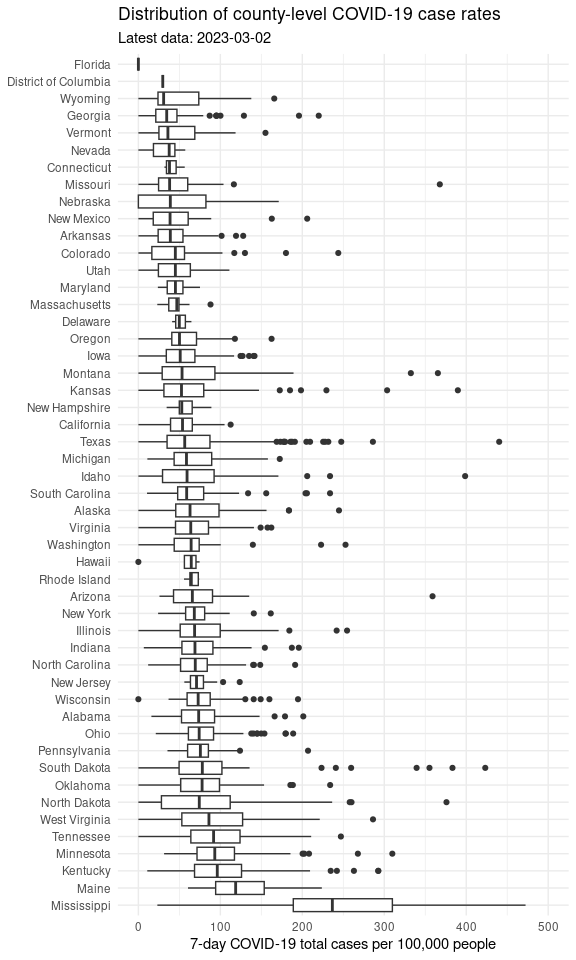
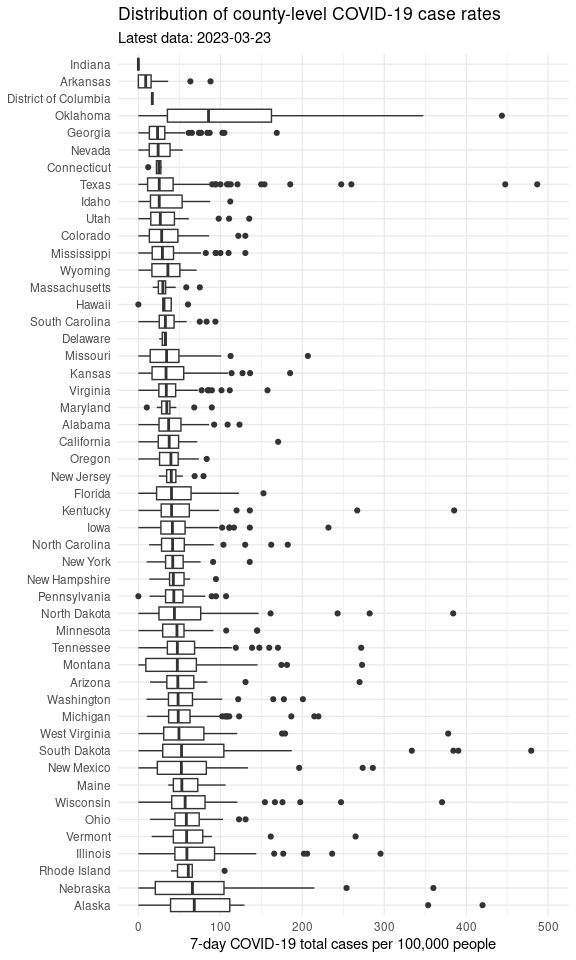
Updated report

diff --git a/README.md b/README.md
@@ -1,7 +1,7 @@
 Minnesota COVID Report
 ================
 
-Report last run: 2023-03-03 21:51:54
+Report last run: 2023-04-13 16:56:57
 
 ## Introduction
 
@@ -19,7 +19,7 @@ library(lubridate)
 library(forcats)
 library(knitr)
 
-LAG_DAYS <- 8
+LAG_DAYS <- 7
 POP_DENOM <- 100000
 
 ## County populations (read from a local data file in this repo)
@@ -106,25 +106,25 @@ rate_data %>%
   knitr::kable()
 ```
 
-| county        | state          |    pop | covid_rate |
-|:--------------|:---------------|-------:|-----------:|
-| Loving        | Texas          |    169 |       2367 |
-| Washington    | Mississippi    |  43909 |       1043 |
-| Clark         | Kansas         |   1994 |        802 |
-| Rolette       | North Dakota   |  14176 |        705 |
-| Menominee     | Wisconsin      |   4556 |        658 |
-| Neshoba       | Mississippi    |  29118 |        611 |
-| Rawlins       | Kansas         |   2530 |        593 |
-| Humphreys     | Mississippi    |   8064 |        570 |
-| Traverse      | Minnesota      |   3259 |        552 |
-| Dorchester    | South Carolina | 162809 |        527 |
-| Keweenaw      | Michigan       |   2116 |        520 |
-| Lawrence      | Mississippi    |  12586 |        509 |
-| Madison       | Mississippi    | 106272 |        472 |
-| Walthall      | Mississippi    |  14286 |        469 |
-| Franklin      | Mississippi    |   7713 |        454 |
-| Concho        | Texas          |   2726 |        440 |
-| Warren        | Mississippi    |  45381 |        427 |
-| Marion        | Mississippi    |  24573 |        427 |
-| Oglala Lakota | South Dakota   |  14177 |        423 |
-| Webster       | Mississippi    |   9689 |        413 |
+| county                   | state         |   pop | covid_rate |
+|:-------------------------|:--------------|------:|-----------:|
+| Major                    | Oklahoma      |  7629 |      10067 |
+| McIntosh                 | Oklahoma      | 19596 |       4241 |
+| Hansford                 | Texas         |  5399 |        704 |
+| Cimarron                 | Oklahoma      |  2137 |        702 |
+| Latimer                  | Oklahoma      | 10073 |        536 |
+| Harmon                   | Oklahoma      |  2653 |        528 |
+| Pecos                    | Texas         | 15823 |        487 |
+| Douglas                  | South Dakota  |  2921 |        479 |
+| Yoakum                   | Texas         |  8713 |        448 |
+| Haskell                  | Oklahoma      | 12627 |        443 |
+| Northwest Arctic Borough | Alaska        |  7621 |        420 |
+| Dewey                    | South Dakota  |  5892 |        390 |
+| Menifee                  | Kentucky      |  6489 |        385 |
+| Hyde                     | South Dakota  |  1301 |        384 |
+| Barnes                   | North Dakota  | 10415 |        384 |
+| Wirt                     | West Virginia |  5821 |        378 |
+| St. Croix                | Wisconsin     | 90687 |        371 |
+| Thurston                 | Nebraska      |  7224 |        360 |
+| Bethel Census Area       | Alaska        | 18386 |        354 |
+| Dewey                    | Oklahoma      |  4891 |        348 |
